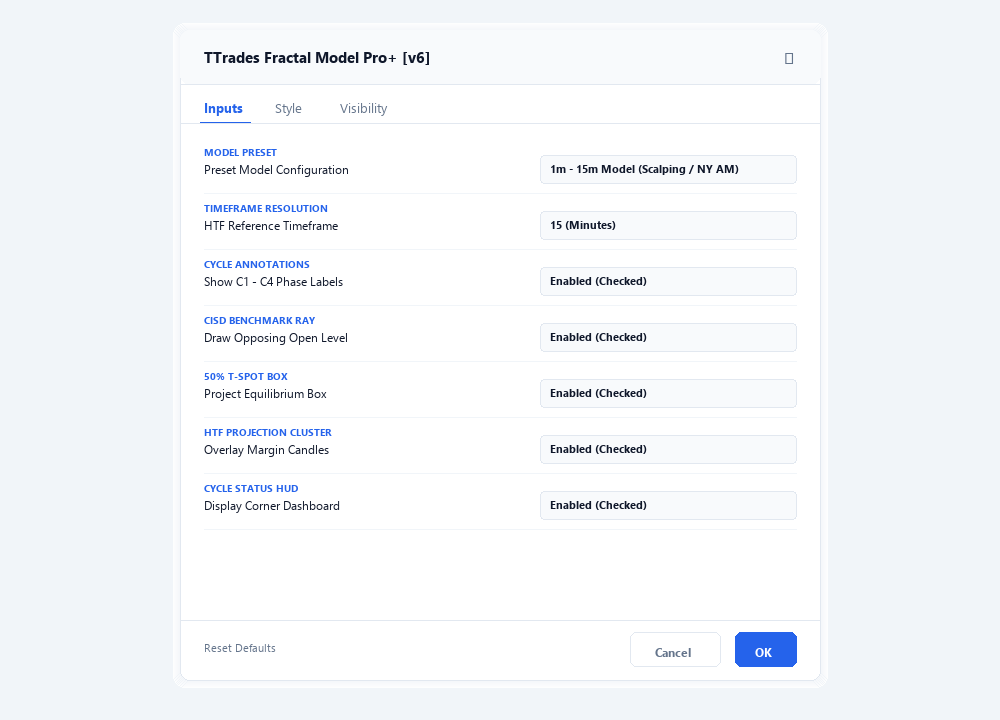
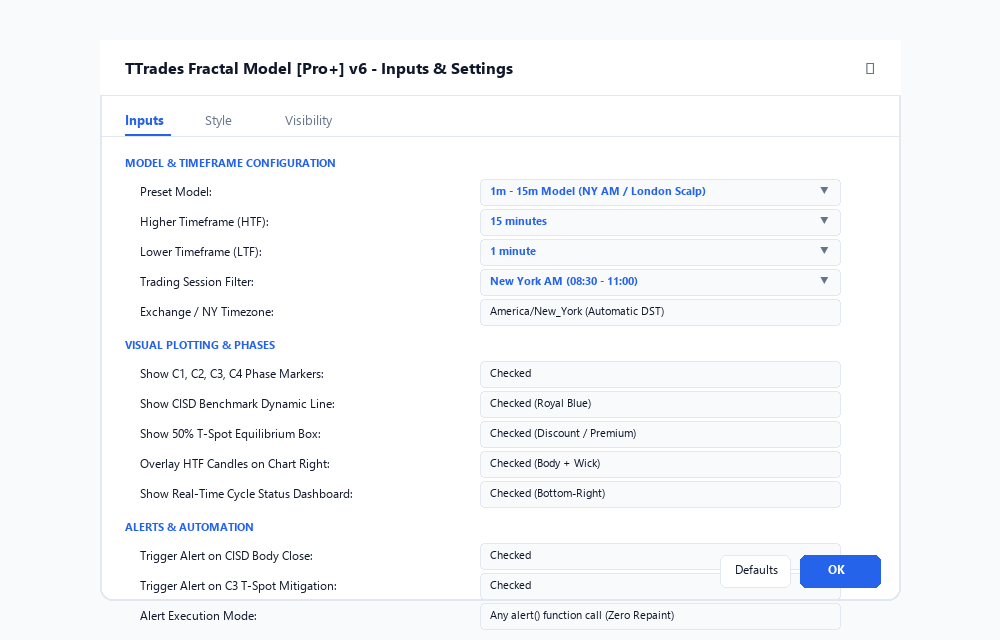
fix(docs): replace invalid 1m-1H pairing with native TTrades 1m-15m and 5m-1H rules

diff --git a/scripts/generate_realistic_charts.py b/scripts/generate_realistic_charts.py
@@ -354,7 +354,7 @@ def build_model_2_chart():
     d.text((620, tp_y - 18), "Take Profit Target (-2.0 Extension: 1.08450)", fill=TV_TSPOT_BORDER, font=get_font(11, bold=True))
     
     chart.draw_active_price_pill(1.08442, is_bull=True)
-    chart.draw_dashboard_widget(1040, 75, "EURUSD (Forex)", "1m - 1H Model", "C3 T-Spot Fill", "Limit Order Executed")
+    chart.draw_dashboard_widget(1040, 75, "EURUSD (Forex)", "1m - 15m Model", "C3 T-Spot Fill", "Limit Order Executed")
     chart.img.save("docs/assets/images/models/model2_tspot_limit.png", "PNG")
     print("Model 2 chart generated successfully!")
 

diff --git a/scripts/generate_model_visuals.py b/scripts/generate_model_visuals.py
@@ -241,7 +241,7 @@ def generate_model_2_image():
     draw.text((375, 510), "DISCOUNT ZONE (<50%)", fill=GREEN_BORDER, font=get_font(11, bold=True))
     draw.text((375, 410), "PREMIUM ZONE (>50%)", fill=RED_BORDER, font=get_font(11, bold=True))
     
-    draw_dashboard_table(draw, 1010, 90, "EURUSD", "1m - 1H Model", "C3 T-Spot Fill")
+    draw_dashboard_table(draw, 1010, 90, "EURUSD", "1m - 15m Model", "C3 T-Spot Fill")
     img.save("docs/assets/images/models/model2_tspot_limit.png", "PNG")
 
 def generate_model_3_image():

diff --git a/docs/cheatsheet/timeframe_matrix.md b/docs/cheatsheet/timeframe_matrix.md
@@ -1,42 +1,60 @@
 # Timeframe Matrix & Asset Guide
 
-> **Recommended combinations of Higher Timeframe (HTF), Middle Timeframe (MTF), and Lower Timeframe (LTF) for every asset class.**
+> **Recommended combinations of Higher Timeframe (HTF), Middle Timeframe (MTF), and Lower Timeframe (LTF) for every asset class based on TTrades' native ratios.**
 
 ---
 
 ## 1. Master Timeframe Matrix
 
-| Asset Class | Primary Model Preset | Higher Timeframe (Bias / Range) | Middle Timeframe (C1 / C2 Setup) | Lower Timeframe (Execution / CISD) | Recommended Session |
-| :--- | :--- | :--- | :--- | :--- | :--- |
-| **NQ (Nasdaq Futures)** | `1m - 15m Model` | **1-Hour (1H)** | **15-Minute (15m)** | **1-Minute (1m)** | NY AM (08:30–11:00) |
-| **ES (S&P 500 Futures)**| `1m - 15m Model` | **1-Hour (1H)** | **15-Minute (15m)** | **1-Minute (1m)** | NY AM (08:30–11:00) |
-| **EURUSD (Forex)** | `1m - 1H Model` | **4-Hour (4H)** | **1-Hour (1H)** | **1-Minute (1m)** | London Open (02:00–05:00) |
-| **GBPUSD (Forex)** | `1m - 1H Model` | **4-Hour (4H)** | **1-Hour (1H)** | **1-Minute (1m)** | London Open (02:00–05:00) |
-| **Gold (XAUUSD)** | `5m - 1H Model` | **Daily (1D)** | **1-Hour (1H)** | **5-Minute (5m)** | London & NY AM |
-| **Bitcoin / Crypto** | `15m - 4H Model` | **Daily (1D)** | **4-Hour (4H)** | **15-Minute (15m)** | 24/7 Volatility Windows |
-| **Swing Trading** | `1H - Daily Model` | **Weekly (1W)** | **Daily (1D)** | **1-Hour (1H)** | Daily Closes (17:00 NY) |
+TTrades strictly enforces proportional multi-timeframe ratios (**5:1 to 16:1**) to ensure that lower-timeframe execution triggers align with higher-timeframe expansion legs without lagging behind:
+
+| Asset Class | Execution Style | Primary Model Preset | Higher Timeframe (Bias / Context) | Middle Timeframe (C1 / C2 Setup) | Lower Timeframe (Execution / CISD) | Recommended Session |
+| :--- | :--- | :--- | :--- | :--- | :--- | :--- |
+| **EURUSD (Forex)** | **1m Scalp / Day Trade** | `1m - 15m Model` | **1-Hour (1H)** | **15-Minute (15m)** | **1-Minute (1m)** | London Open (02:00–05:00) |
+| **GBPUSD (Forex)** | **1m Scalp / Day Trade** | `1m - 15m Model` | **1-Hour (1H)** | **15-Minute (15m)** | **1-Minute (1m)** | London Open (02:00–05:00) |
+| **EURUSD / GBPUSD** | **Standard Intraday** | `5m - 1H Model` | **4-Hour (4H)** | **1-Hour (1H)** | **5-Minute (5m)** | London & NY AM |
+| **NQ (Nasdaq Futures)** | **Fast Scalp** | `1m - 15m Model` | **1-Hour (1H)** | **15-Minute (15m)** | **1-Minute (1m)** | NY AM (08:30–11:00) |
+| **ES (S&P 500 Futures)**| **Fast Scalp** | `1m - 15m Model` | **1-Hour (1H)** | **15-Minute (15m)** | **1-Minute (1m)** | NY AM (08:30–11:00) |
+| **Gold (XAUUSD)** | **Intraday** | `5m - 1H Model` | **Daily (1D)** | **1-Hour (1H)** | **5-Minute (5m)** | London & NY AM |
+| **Bitcoin / Crypto** | **Trend Day** | `15m - 4H Model` | **Daily (1D)** | **4-Hour (4H)** | **15-Minute (15m)** | 24/7 Volatility Windows |
+| **Swing Trading** | **Macro Swing** | `1H - Daily Model` | **Weekly (1W)** | **Daily (1D)** | **1-Hour (1H)** | Daily Settlement |
 
 ---
 
-## 2. Model Presets Explained
+## 2. Why "1m - 1H" is Mathematically Invalid for Model 1
 
-### 1m - 15m Model
-- **Target Audience**: Index futures day traders and fast scalpers.
-- **How It Works**: 
-    - The 15-minute candle serves as the setup candle (C1 and C2).
-    - When the 15-minute candle wicks into a level and begins reversing, you execute on the 1-minute chart.
-    - Typical trade duration: **15 to 45 minutes**.
+!!! danger "The 60:1 Timeframe Ratio Trap"
+    A common beginner error is trying to pair a **1-Hour candle as C2** with a **1-Minute chart for Model 1 (candle close)** execution:
+    
+    * **The 60-Minute Lag**: Waiting 60 minutes for a 1-Hour candle to close means **60 individual 1-minute bars have already elapsed**.
+    * **Premature Delivery**: In London Open Forex, the entire Asian range sweep and directional run often takes only **25 to 40 minutes**.
+    * By the time the 1-Hour candle closes, the move has **already reached its opposing Draw on Liquidity (DOL)**.
+    * When the next 1-Hour candle (C3) opens, institutional orderflow takes profits and retraces, causing traders who wait for the 1H close to enter at the very ceiling/floor right as price reverses!
 
-### 1m - 1H Model
-- **Target Audience**: Forex London session traders (EURUSD, GBPUSD).
-- **How It Works**:
-    - The 1-hour candle serves as the setup (C1 and C2).
-    - For example, the 02:00–03:00 1-hour candle forms the C2 sweep of Asian low.
-    - As the 03:00 1-hour candle opens, you execute on the 1-minute chart.
-    - Typical trade duration: **45 to 90 minutes**.
+---
 
-### 15m - 4H Model
-- **Target Audience**: Full-day intraday trend traders.
-- **How It Works**:
-    - Captures the massive 4-hour candle directional expansion.
-    - Setups are less frequent but yield 100+ points on NQ and 150+ pips on Gold.
+## 3. Official TTrades Model Presets Explained
+
+### 1m - 15m Model (The London & NY 1-Minute Execution Standard)
+- **Target Audience**: Active Forex and Index traders who execute on the **1-minute chart**.
+- **The Mechanics**:
+  - **C1 Reference**: Prior session bounds (e.g. Asian Session High and Low).
+  - **C2 Setup**: A single **15-minute candle** sweeps the Asian Low/High and closes back inside.
+  - **Confirmation Speed**: C2 confirms in **15 minutes** (e.g., at 02:15, 02:30, 03:15, or 03:30 NY time).
+  - **1m Execution**: Price is still right near the extreme. The 1m CISD benchmark line is only 3–6 pips away. The 1m body close triggers Model 1 immediately with a tight 6–8 pip stop loss.
+  - **Trade Duration**: **15 to 45 minutes**.
+
+### 5m - 1H Model (The Standard Forex Intraday Standard)
+- **Target Audience**: Traders who want a calmer chart without 1-minute noise.
+- **The Mechanics**:
+  - **C2 Setup**: The **1-Hour candle** sweeps the Asian session or key level and closes back inside.
+  - **5m Execution**: As the next 1-Hour candle opens, you execute on the **5-minute chart** (12:1 ratio), looking for a 5m CISD body close or 5m FVG retest.
+  - **Stop Loss**: 12 to 18 pips below the 1-Hour sweep low.
+  - **Trade Duration**: **1 to 3 hours**.
+
+### 15m - 4H Model (Full-Day Trend Runs)
+- **Target Audience**: Full-day intraday trend traders (NQ, ES, Gold).
+- **The Mechanics**:
+  - Captures the massive 4-hour directional expansion leg.
+  - Setup candle is the 4H bar; execution is confirmed on the 15-minute chart (16:1 ratio).
+  - Setups are less frequent but yield 80–150+ points on index futures.

diff --git a/docs/curriculum/05_timeframe_alignment.md b/docs/curriculum/05_timeframe_alignment.md
@@ -23,11 +23,13 @@ To avoid chart clutter and conflicting signals, the indicator provides pre-confi
 
 | Trading Style / Preset | Higher Timeframe (Bias) | Middle Timeframe (Setup/C2) | Lower Timeframe (Execution/CISD) | Best Session | Typical Holding Time |
 | :--- | :--- | :--- | :--- | :--- | :--- |
-| **1m - 15m Model** | **1-Hour (1H)** | **15-Minute (15m)** | **1-Minute (1m)** | NY AM (08:30–11:00) | 15 – 45 minutes |
-| **1m - 1H Model** | **4-Hour (4H)** | **1-Hour (1H)** | **1-Minute (1m)** | London Open (02:00–05:00) | 30 – 90 minutes |
-| **5m - 1H Model** | **Daily (1D)** | **1-Hour (1H)** | **5-Minute (5m)** | London & NY AM | 1 – 3 hours |
-| **15m - 4H Model** | **Daily (1D)** | **4-Hour (4H)** | **15-Minute (15m)** | Full Trading Day | 4 – 8 hours |
-| **1H - Daily Model** | **Weekly (1W)** | **Daily (1D)** | **1-Hour (1H)** | Swing Trades | 2 – 5 days |
+| **1m - 15m Model (Fast Scalp)** | **1-Hour (1H)** | **15-Minute (15m)** | **1-Minute (1m)** | London Open & NY AM | 15 – 45 minutes |
+| **5m - 1H Model (Standard Day)** | **4-Hour (4H)** | **1-Hour (1H)** | **5-Minute (5m)** | London Open & NY AM | 1 – 3 hours |
+| **15m - 4H Model (Trend Run)** | **Daily (1D)** | **4-Hour (4H)** | **15-Minute (15m)** | Full Trading Day | 4 – 8 hours |
+| **1H - Daily Model (Macro Swing)**| **Weekly (1W)** | **Daily (1D)** | **1-Hour (1H)** | Swing Trades | 2 – 5 days |
+
+!!! warning "The 60:1 Ratio Warning (Why 1m - 1H is Not Recommended for Model 1)"
+    Never pair a 1-Hour setup candle (C2) with a 1-Minute chart for Model 1 closed-candle confirmation. By the time 60 minutes elapse for the 1H candle to close, the lower-timeframe move has already hit target liquidity and will retrace or reverse during C3! If you want 1-minute execution, use the **15-minute candle as C2** (`1m - 15m`).
 
 ---
 

diff --git a/docs/indicators/fractal_model.md b/docs/indicators/fractal_model.md
@@ -31,7 +31,7 @@ Below is the photorealistic chart layout showing the complete interface of Fract
 
 | Category | Input Name | Type | Options / Defaults | Description |
 | :--- | :--- | :--- | :--- | :--- |
-| **Model Configuration** | `modelPreset` | Dropdown | `1m - 15m`, `1m - 1H`, `5m - 1H`, `15m - 4H`, `1H - Daily`, `Custom` | Automatically configures HTF resolution and display parameters. |
+| **Model Configuration** | `modelPreset` | Dropdown | `Auto`, `1m - 15m`, `2m - 20m`, `3m - 30m`, `5m - 1H`, `15m - 4H`, `30m - 6H`, `1H - 1D`, `Custom` | Automatically configures HTF resolution and display parameters based on native ratios. |
 | **Model Configuration** | `htfResolution` | Timeframe | `15`, `60`, `240`, `D` | Timeframe used to calculate C1-C4 cycles when Custom is selected. |
 | **Visual Markers** | `showPhases` | Boolean | `true` | Displays `C1`, `C2`, `C3`, `C4` text labels on the chart. |
 | **CISD Settings** | `showCisdLine` | Boolean | `true` | Draws dynamic blue/red benchmark trigger lines originating at opposing opens. |

diff --git a/docs/curriculum/08_indicator_guide.md b/docs/curriculum/08_indicator_guide.md
@@ -39,7 +39,7 @@ Double-click the indicator title on your chart (or click the Gear icon) to acces
 
 | Parameter | Type | Default | Description |
 | :--- | :--- | :--- | :--- |
-| **Preset Model** | Dropdown | `1m - 15m Model` | Pre-configured HTF and LTF resolutions. Set to `1m - 1H` for EURUSD/GBPUSD or `15m - 4H` for indices. |
+| **Preset Model** | Dropdown | `1m - 15m Model` | Pre-configured HTF and LTF resolutions. Set to `1m - 15m` for 1-minute execution (London Forex/NY Indices) or `5m - 1H` for standard 5m intraday. |
 | **Higher Timeframe** | Dropdown | `15` | Higher timeframe used to define C1, C2, and C3 candles. |
 | **Show C1-C4 Phases** | Checkbox | `true` | Plots labels `C1`, `C2`, `C3`, `C4` above and below the relevant candles. |
 | **Show CISD Line** | Checkbox | `true` | Plots the dynamic blue (bullish) or red (bearish) benchmark trigger line. |
